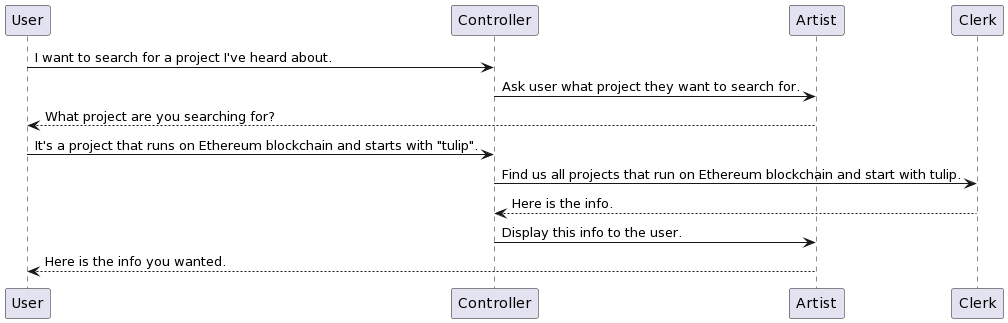
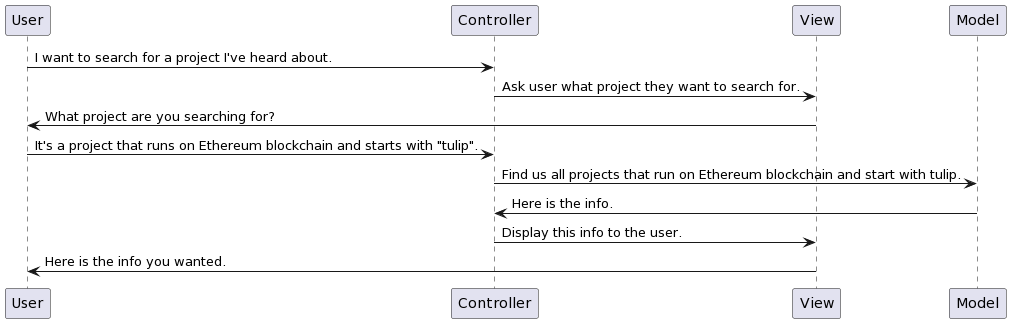
Update images, add User

diff --git a/03_Elaboration/README.md b/03_Elaboration/README.md
@@ -1,10 +1,10 @@
 # BetterCryptoBureau
 
-## Elaboration Part 2 - Refine user stories, sequence diagram
+## Elaboration Part 2 - Refine user stories, sequence plantuml
 
 *2022.10.25, 100 pts = 25%*
 
-1. Given Elaboration Part 1 classes, create a play/narration/sequence diagram for each user story.
+1. Given Elaboration Part 1 classes, create a play/narration/sequence plantuml for each user story.
 
 2. When starting a user story, move it to Refining. Max one story/person in Refining. 
 
@@ -16,7 +16,7 @@
 | Model         | Persistent storage, performing database storage and operations (sort lists). |
 | View          | Display data to users (View from MVC).                       |
 | Authenticator | Security, for user authentication.                           |
-| Calculator    | Performs calculations, such as calculate cryptocurrency reputation. |
+| Model         | Performs calculations, such as calculate cryptocurrency reputation. |
 | Presenter     | Get list of available cryptocurrencies, get their historical data, get project information, search for cryptocurrencies, purchase links, reputation score. |
 
 ### Current kanban state
@@ -35,7 +35,7 @@ Story points = 4
 
 **Following is sourced/adapted from Michael Dorin's user story 8:**
 
-```diagram
+```plantuml
 @startuml
 User -> Controller: I would like to contribute content
 Controller -> View: Tell User to Log In
@@ -56,7 +56,7 @@ Story points = 2
 
 *As an investor, I want to see who project founders are, so that I can easily research their backgrounds and credentials.*
 
-```diagram
+```plantuml
 @startuml
 User -> Controller: I would like to see project info.
 Controller -> View: Ask user what project they want to see info about.
@@ -92,7 +92,7 @@ Story points = 1
 
 *As an explorer, I want to see a list of all documented cryptocurrencies, so that I can explore and find new ones.*
 
-```diagram
+```plantuml
 @startuml
 User -> Controller: I would like to see a a listing of all projects.
 Controller -> Model: Find us a listing of all projects.
@@ -110,7 +110,7 @@ Story points = 2
 
 *As an inquisitive investor, I want to sort the cryptocurrency list by reputation, price, and other metrics, so that I can discover new ones.*
 
-```diagram
+```plantuml
 @startuml
 User -> Controller: I would like to sort the list of projects by a specific field.
 Controller -> View: Ask user what they want to order by.
@@ -131,7 +131,7 @@ Story points = 4
 
 *As an cryptocurrency expert, I want to contribute information to cryptocurrency projects, so that I can improve my reputation.*
 
-```diagram
+```plantuml
 @startuml
 User -> Controller: I would like to submit info about a project, so that I can earn xp points.
 Controller -> View: Ask user what project they want to contribute info about.
@@ -144,7 +144,7 @@ Controller -> View: Ask user what specific blockchain info they want to contribu
 View -> User: What specific blockchain info do you want to contribute?
 User -> Controller: This project runs on the Ethereum blockchain.
 Controller -> Model: Store this user provided information.
-Controller -> Calculator: Give the user 10 XP points for contributing info about blockchain.
+Controller -> Model: Give the user 10 XP points for contributing info about blockchain.
 Controller -> View: Tell the user we have saved the info and awarded them 10 XP.
 View -> User: We have saved the info and awarded you 10 XP.
 @enduml
@@ -158,7 +158,7 @@ Story points = 3
 
 *As a user, I want to be able to search for specific cryptocurrency projects by name and tags, so that I can easily find what I'm looking for.*
 
-```diagram
+```plantuml
 @startuml
 User -> Controller: I want to search for a project I've heard about.
 Controller -> View: Ask user what project they want to search for.
@@ -179,7 +179,7 @@ Story points = 3
 
 *As an investor suspicious of Wall Street Bets, I want to access historical/archive/vintage information, so that I can see if users are contributing falsified information to pump up a project.*
 
-```diagram
+```plantuml
 @startuml
 User -> Controller: I want to search a project historical data like price and overall perfomance .
 Controller -> View: Ask user what project user wants to see .
@@ -200,7 +200,7 @@ Story points = 3
 
 *As a risk averse investor, I want to see price time series, so that I can tell how volatile a cryptocurrency's price is. I'd also like to see price/initial coin offering price, to know how over- or under-valued the coin is, relative to first listing.*
 
-```diagram
+```plantuml
 @startuml
 User -> Controller:  I want to see  performance of a project so I can  get better picture of its volatility and overall performance in relation to the overall market.
 Controller -> View: Ask user what project user wants to see .
@@ -223,7 +223,7 @@ Story points = 1
 
 *As an eager investor, I want links to external coin markets, so that I know I'm going to purchase the correct coin.*
 
-```diagram
+```plantuml
 @startuml
 User -> Controller: I want to see the list of exchanges I can purchase cryptocurrency coins/shares 
 Controller -> View: Ask user what project user wants to see .
@@ -244,7 +244,7 @@ Story points = 2
 
 *As an easily overwhelmed investor, I want to see a index number/letter system that tells me with a quick glance how reputable a coin is.*
 
-```diagram
+```plantuml
 @startuml
 User -> Controller: I want a ranking or grading system that shows me how reputable a coin is 
 Controller -> View: Ask user what project user wants to see ranking for .
@@ -258,4 +258,3 @@ View -> User: Here is the info you wanted.
 ```
 
 ![user story ranking](./images/Ranking.png)
-

diff --git a/04_Implementation/README.md b/04_Implementation/README.md
@@ -26,13 +26,36 @@ Images created at https://www.plantuml.com/plantuml/uml/
 
 ## UML
 
+### User
+
+User class:
+
+```plantuml
+@startuml
+class User
+{
+-String fullName
+-int phoneNumber
+-String email
+-String userName
+-String password
+
++createLogin()
++login()
+}
+@enduml
+```
+
+![plant_uml_user](./images/uml_user.png)
+
 ### Model
 
 Model view:
 
 ```plantuml
 @startuml
-class Model {
+class Model 
+{
  -String name
  -String symbol
  -float decimals
@@ -77,12 +100,29 @@ class Model {
 @enduml
 ```
 
-![plant_uml](./images/uml_model.png)
+![plant_uml_model](./images/uml_model.png)
+
+### Controller
+
+Controller is just a router. These modules tend to be very short. Wouldn't they just be methods?
+
+```plantuml
+@startuml
+class Controller
+{
+}
+@enduml
+```
 
 ### View
 
 Template Engines create these dynamic websites, so do they even have code associated to them?
 
-### Controller
+```plantuml
+@startuml
+class View
+{
+}
+@enduml
+```
 
-Controller is just a router. These modules tend to be very short. Wouldn't they just be methods?
